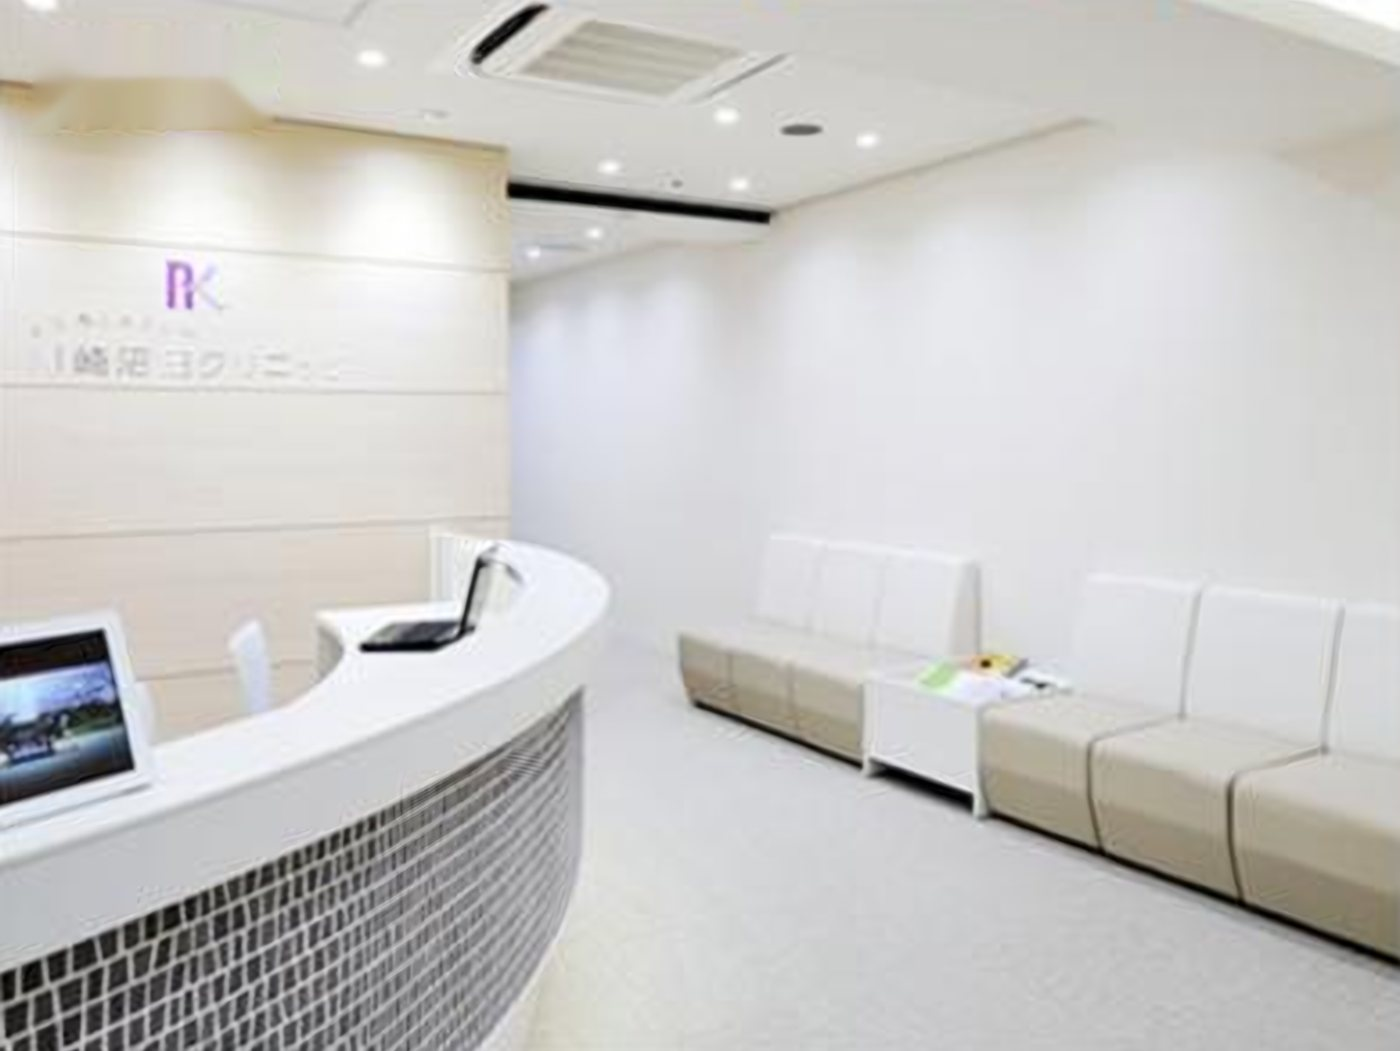
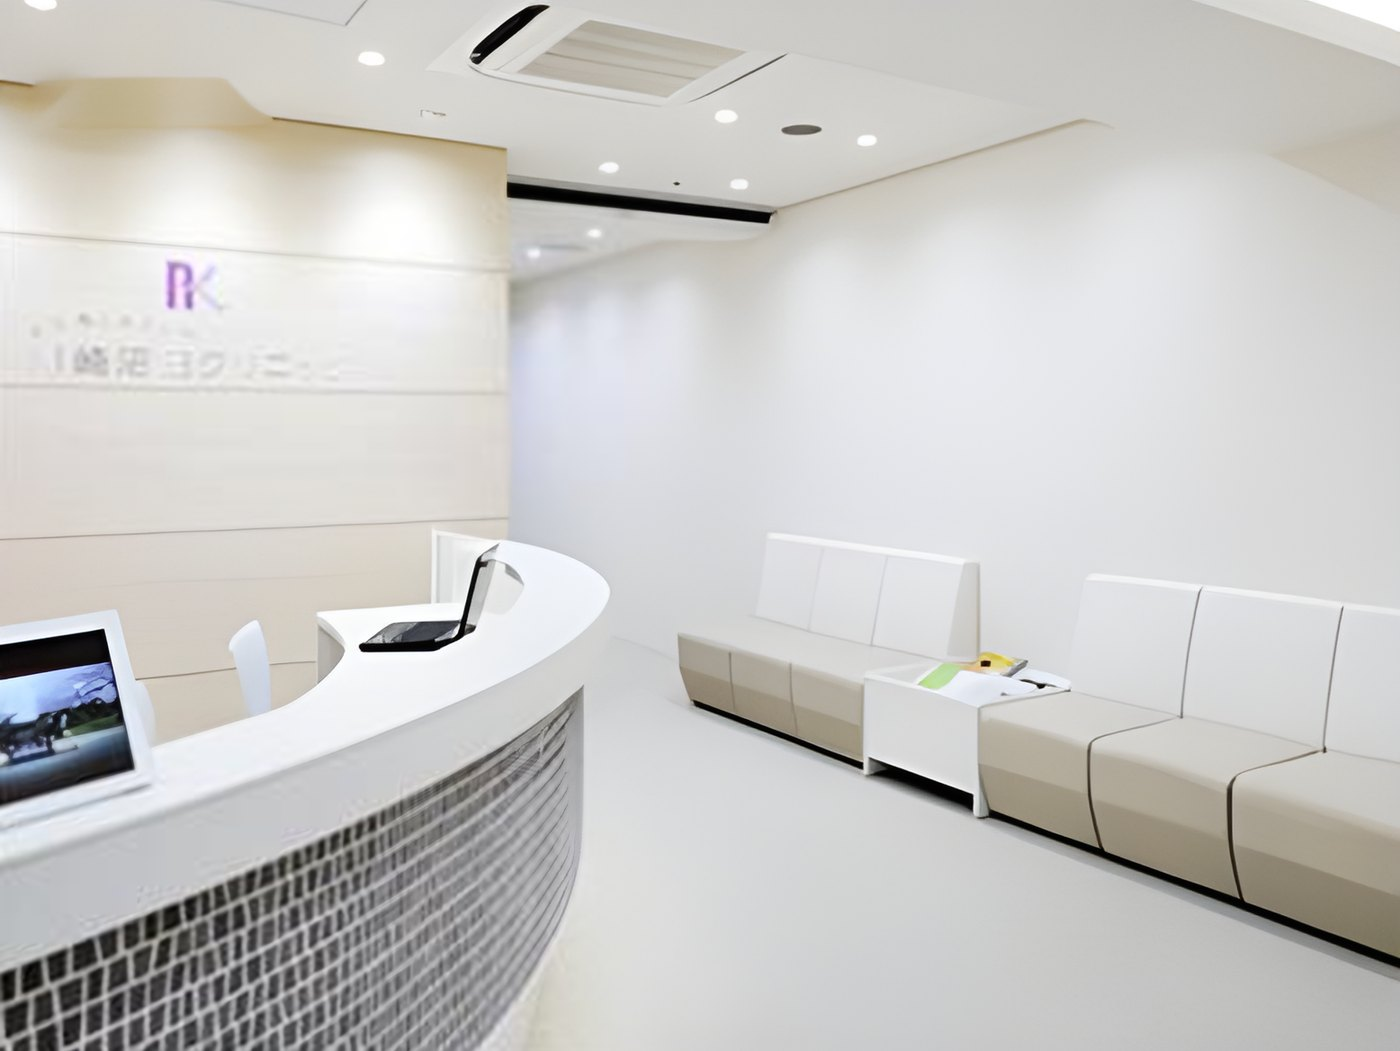
008：FVを案2（安心できる点を並べる＋院内写真の切り替え）に変更、院内写真の画質を改善
Claude-Session: https://claude.ai/code/session_01PqN1TRnnMqSdtr1dScAdhW

diff --git a/008/assets/css/style.css b/008/assets/css/style.css
@@ -75,8 +75,6 @@ table { border-collapse: collapse; }
 
 /* ---------- FV（共通） ---------- */
 .fv__stage { position: relative; overflow: hidden; background: #5DB4E8 url(../img/sky.jpg) center 35% / cover no-repeat; }
-.fv__inner { position: relative; width: min(1200px, calc(100% - 64px)); margin: 0 auto; display: grid; grid-template-columns: minmax(0, 1fr) minmax(0, 1fr); gap: 32px; align-items: center; padding: 48px 0; }
-.fv__panel { position: relative; z-index: 2; align-self: center; }
 .fv__h1 { font-size: 14px; font-weight: 700; letter-spacing: .1em; color: var(--purple); }
 .fv__title { margin-top: 14px; font-size: clamp(30px, 2.9vw, 42px); font-weight: 700; line-height: 1.5; letter-spacing: .03em; }
 .fv__lead { margin-top: 16px; font-size: 16px; line-height: 1.95; }
@@ -87,13 +85,6 @@ table { border-collapse: collapse; }
 .fv__facts strong { display: block; font-size: 17px; letter-spacing: .06em; }
 
 /* 空の中に白いパネル＋紫の帯 */
-.fv .fv__panel { background: var(--white); color: var(--ink); padding: 40px 40px 44px; border-left: 6px solid var(--plum); }
-.fv__photos { display: grid; grid-template-columns: 1fr 1fr; gap: 10px; }
-.fv__photos figure { position: relative; margin: 0; background: var(--white); padding: 6px; }
-.fv__main { grid-column: 1 / -1; }
-.fv__photos img { width: 100%; aspect-ratio: 3 / 2; object-fit: cover; }
-.fv__sub img { aspect-ratio: 16 / 10; }
-.fv__photos figcaption { position: absolute; left: 6px; bottom: 6px; background: var(--plum); color: var(--white); font-size: 12px; font-weight: 700; letter-spacing: .1em; padding: 3px 12px; }
 .sp { display: none; }
 .fv .fv__title { color: var(--plum); }
 .fv .fv__lead { color: var(--ink-sub); }
@@ -267,7 +258,41 @@ table { border-collapse: collapse; }
 p, li, dd, h1, h2, h3, .trouble__title, .column span, .company__title { word-break: keep-all; overflow-wrap: anywhere; }
 
 /* ---------- タブレット ---------- */
+/* FV：安心できる点を並べる＋写真の切り替え */
+.fv2__inner { position: relative; width: min(1200px, calc(100% - 64px)); margin: 0 auto; display: grid; grid-template-columns: minmax(0, 46fr) minmax(0, 54fr); align-items: center; padding: 52px 0; }
+.fv2__panel { position: relative; z-index: 2; margin-right: -56px; background: var(--white); padding: 40px 44px 42px; border-top: 6px solid var(--plum); }
+.fv2 .fv__title { color: var(--plum); font-size: clamp(28px, 2.6vw, 38px); }
+.fv2__checks { margin-top: 20px; display: grid; gap: 10px; }
+.fv2__checks li { display: flex; gap: 12px; align-items: flex-start; font-size: 16px; font-weight: 700; line-height: 1.6; color: var(--ink); }
+.fv2__check { flex: none; display: grid; place-items: center; width: 26px; height: 26px; margin-top: 0; border-radius: 50%; background: var(--gold); color: #3A2A06; }
+.fv2__check .icon { font-size: 15px; stroke-width: 3; }
+.fv2 .fv__btns { margin-top: 28px; }
+.fv2 .btn--sub { border: 1.5px solid var(--plum); color: var(--plum); }
+.fv2 .btn--sub:hover { background: var(--plum); color: var(--white); }
+.fv2__slides { position: relative; aspect-ratio: 4 / 3; background: var(--white); border: 8px solid var(--white); }
+.fv2__slide { position: absolute; inset: 0; margin: 0; opacity: 0; transition: opacity 1.2s ease; }
+.fv2__slide.is-on { opacity: 1; }
+.fv2__slide img { width: 100%; height: 100%; object-fit: cover; }
+.fv2__slide figcaption { position: absolute; right: 0; bottom: 0; background: var(--plum); color: var(--white); font-size: 13px; font-weight: 700; letter-spacing: .1em; padding: 4px 16px; }
+.fv2__dots { position: absolute; left: 72px; bottom: -40px; display: flex; gap: 2px; }
+.fv2__dots button { width: 44px; height: 24px; padding: 0; border: 0; background: none; cursor: pointer; }
+.fv2__dots button::before { content: ""; display: block; height: 4px; background: rgba(255,255,255,.6); }
+.fv2__dots button.is-on::before { background: var(--white); }
+.fv2__tel { background: var(--plum); color: var(--white); }
+.fv2__tel-inner { width: min(1200px, calc(100% - 64px)); margin: 0 auto; display: flex; flex-wrap: wrap; align-items: center; gap: 12px 36px; padding: 22px 0; }
+.fv2__tel-label { display: flex; flex-direction: column; font-size: 15px; font-weight: 700; letter-spacing: .08em; line-height: 1.5; }
+.fv2__tel-note { font-size: 12px; font-weight: 400; color: rgba(255,255,255,.8); }
+.fv2__tel-num { display: inline-flex; align-items: center; gap: 10px; font-family: var(--num); font-size: 36px; font-weight: 500; letter-spacing: .04em; color: var(--white); text-decoration: none; }
+.fv2__tel-num .icon { font-size: 28px; color: var(--gold); }
+.fv2__tel-hours { display: flex; flex-direction: column; gap: 0; margin-left: auto; font-size: 14px; line-height: 1.75; }
+.fv2__tel-hours div { display: flex; gap: 8px; }
+.fv2__tel-hours dt { color: var(--gold); font-weight: 700; }
+
 @media (max-width: 1080px) {
+  .fv2__inner { grid-template-columns: minmax(0, 1fr); }
+  .fv2__panel { margin: 0; order: 2; }
+  .fv2__dots { left: 10px; bottom: 4px; }
+  .fv2__tel-hours { margin-left: 0; }
   :root { --header-h: 72px; }
   .topbar, .gnav { display: none; }
   .header__inner { min-height: 72px; gap: 16px; }
@@ -281,11 +306,6 @@ p, li, dd, h1, h2, h3, .trouble__title, .column span, .company__title { word-bre
   .drawer[hidden] { display: none; }
   .drawer__list a { display: block; padding: 14px 4px; border-bottom: 1px solid var(--line); text-decoration: none; font-weight: 700; }
   .drawer__tel { width: 100%; margin-top: 20px; }
-  .fv__inner { grid-template-columns: minmax(0, 1fr); }
-  .fv .fv__panel { padding: 32px 32px 36px; }
-  .fv__photos { grid-template-columns: 2fr 1fr 1fr; }
-  .fv__main { grid-column: auto; }
-  .fv__photos img, .fv__sub img { aspect-ratio: 4 / 3; }
   .head--split { grid-template-columns: minmax(0, 1fr); }
   .trouble { grid-template-columns: minmax(0, 1fr); }
   .policy { grid-template-columns: minmax(0, 1fr); }
@@ -296,21 +316,21 @@ p, li, dd, h1, h2, h3, .trouble__title, .column span, .company__title { word-bre
 
 /* ---------- スマホ ---------- */
 @media (max-width: 767px) {
+  .fv2__inner { width: 100%; padding: 0; }
+  .fv2__slides { border: 0; }
+  .fv2__dots button { width: 44px; }
+  .fv2__panel { padding: 28px 20px 32px; border-top-width: 5px; }
+  .fv2 .fv__title { font-size: 27px; }
+  .fv2__checks li { font-size: 15px; }
+  .fv2__tel-inner { width: calc(100% - 40px); padding: 20px 0 22px; gap: 8px; }
+  .fv2__tel-num { font-size: 32px; }
+  .fv2__tel-hours { flex-direction: column; font-size: 13px; }
   body { font-size: 15px; }
   .wrap { width: calc(100% - 40px); }
   .header__inner { width: calc(100% - 32px); }
   .header__logo img { width: 168px; }
   .header__tel { display: none; }
   .sp { display: inline; }
-  .fv__inner { width: 100%; grid-template-columns: minmax(0, 1fr); min-height: 0; padding: 0; gap: 0; }
-  .fv__photos { order: -1; grid-template-columns: 1fr 1fr; gap: 6px; padding: 16px 16px 0; }
-  .fv__main { grid-column: 1 / -1; }
-  .fv__photos figure { padding: 4px; }
-  .fv__photos img { aspect-ratio: 3 / 2; }
-  .fv__sub img { aspect-ratio: 4 / 3; }
-  .fv__photos figcaption { left: 4px; bottom: 4px; font-size: 11px; padding: 2px 10px; }
-  .fv__panel { padding: 30px 20px 34px; }
-  .fv .fv__panel { border-left: 0; border-top: 5px solid var(--plum); }
   .fv__title { font-size: 28px; }
   .fv__lead { font-size: 15px; }
   .fv__btns { flex-direction: column; }

diff --git a/008/index.html b/008/index.html
@@ -208,30 +208,43 @@
 
 <main id="main">
 
-  <section class="fv" aria-labelledby="fv-title">
+  <section class="fv fv2" aria-labelledby="fv-title">
     <div class="fv__stage">
-      <div class="fv__inner">
-        <div class="fv__panel">
+      <div class="fv2__inner">
+        <div class="fv2__panel">
           <h1 class="fv__h1" id="fv-title">川崎駅から徒歩2分の心療内科・精神科</h1>
-          <p class="fv__title dmoji">うまくいかなかったのは、<br>あなただけのせいでは<br>ありません。</p>
-          <p class="fv__lead">不器用でも、<wbr>遠回りを<wbr>してきても<wbr>構いません。<wbr>いま困っている<wbr>ことを<wbr>院長と<wbr>一緒に<wbr>整理して、<wbr>ここから<wbr>次の<wbr>手を<wbr>考えていきます。</p>
+          <p class="fv__title dmoji">うまく<wbr>いかなかったのは、<br>あなただけの<wbr>せいでは<br>ありません。</p>
+          <ul class="fv2__checks">
+            <li><span class="fv2__check"><svg class="icon"><use href="#i-check"/></svg></span><span>初診から<wbr>最後まで、<wbr>院長が<wbr>担当します</span></li>
+            <li><span class="fv2__check"><svg class="icon"><use href="#i-check"/></svg></span><span>薬だけに<wbr>頼らず、<wbr>お話を<wbr>伺いながら<wbr>進めます</span></li>
+            <li><span class="fv2__check"><svg class="icon"><use href="#i-check"/></svg></span><span>ご家族の<wbr>ことで<wbr>悩む方も、<wbr>ご本人と<wbr>して<wbr>相談できます</span></li>
+            <li><span class="fv2__check"><svg class="icon"><use href="#i-check"/></svg></span><span>川崎駅から<wbr>徒歩2分。<wbr>完全予<wbr>約制です</span></li>
+          </ul>
           <div class="fv__btns">
             <a class="btn btn--gold" href="tel:0445895377"><svg class="icon"><use href="#i-phone"/></svg><span class="dmoji dmoji-nw">電話で予約する</span></a>
             <a class="btn btn--sub" href="#first"><span class="dmoji dmoji-nw">初診の流れ</span><svg class="icon"><use href="#i-arrow"/></svg></a>
           </div>
         </div>
-        <div class="fv__photos">
-          <figure class="fv__main"><img src="assets/img/clinic-waiting.jpg" alt="川崎沼田クリニックの待合室" width="1400" height="1051"><figcaption>待合室</figcaption></figure>
-          <figure class="fv__sub"><img src="assets/img/clinic-reception.jpg" alt="川崎沼田クリニックの受付" width="1000" height="751"><figcaption>受付</figcaption></figure>
-          <figure class="fv__sub"><img src="assets/img/clinic-room.jpg" alt="川崎沼田クリニックの診察室" width="1000" height="751"><figcaption>診察室</figcaption></figure>
+        <div class="fv2__slides" aria-label="院内の様子">
+          <figure class="fv2__slide is-on"><img src="assets/img/clinic-waiting.jpg" alt="川崎沼田クリニックの待合室" width="1400" height="1051"><figcaption>待合室</figcaption></figure>
+          <figure class="fv2__slide"><img src="assets/img/clinic-reception.jpg" alt="川崎沼田クリニックの受付" width="1000" height="751"><figcaption>受付</figcaption></figure>
+          <figure class="fv2__slide"><img src="assets/img/clinic-room.jpg" alt="川崎沼田クリニックの診察室" width="1000" height="751"><figcaption>診察室</figcaption></figure>
+          <figure class="fv2__slide"><img src="assets/img/clinic-exterior.jpg" alt="川崎沼田クリニックが入る加瀬ビル133の外観" width="1000" height="751"><figcaption>外観</figcaption></figure>
+          <div class="fv2__dots"><button type="button" aria-label="待合室の写真" class="is-on"></button><button type="button" aria-label="受付の写真"></button><button type="button" aria-label="診察室の写真"></button><button type="button" aria-label="外観の写真"></button></div>
         </div>
       </div>
     </div>
-    <ul class="fv__facts">
-      <li><svg class="icon"><use href="#i-user"/></svg><span><strong>完全主<wbr>治医制</strong>初診から<wbr>最後まで<wbr>院長が<wbr>担当</span></li>
-      <li><svg class="icon"><use href="#i-badge"/></svg><span><strong>精神保健指定医</strong>日本医師会 認定産業医</span></li>
-      <li><svg class="icon"><use href="#i-train"/></svg><span><strong>駅から<wbr>徒歩2分</strong>JR川崎駅<wbr>東口・京急川崎駅</span></li>
-    </ul>
+    <div class="fv2__tel">
+      <div class="fv2__tel-inner">
+        <p class="fv2__tel-label"><span class="dmoji">ご予約・<wbr>お問い合わせ</span><span class="fv2__tel-note">完全予<wbr>約制</span></p>
+        <a class="fv2__tel-num" href="tel:0445895377"><svg class="icon"><use href="#i-phone"/></svg>044-589-5377</a>
+        <dl class="fv2__tel-hours">
+          <div><dt>平日</dt><dd><span class="nw">9:30〜12:30</span>・<span class="nw">14:30〜18:15</span></dd></div>
+          <div><dt>土曜</dt><dd><span class="nw">9:00〜12:00</span>・<span class="nw">14:00〜16:45</span></dd></div>
+          <div><dt>休診</dt><dd>木曜・日曜・祝日</dd></div>
+        </dl>
+      </div>
+    </div>
   </section>
 
   <section class="sec" id="trouble" aria-labelledby="trouble-title">
@@ -517,5 +530,6 @@
 </div>
 
 <script src="assets/js/main.js"></script>
+
 </body>
 </html>

diff --git a/008/assets/js/main.js b/008/assets/js/main.js
@@ -88,3 +88,14 @@
     onScroll();
   }
 })();
+
+// FV：院内写真の切り替え
+(() => {
+  const box = document.querySelector('.fv2__slides'); if (!box) return;
+  const s = [...box.querySelectorAll('.fv2__slide')], d = [...box.querySelectorAll('.fv2__dots button')];
+  let i = 0, t;
+  const go = n => { s[i].classList.remove('is-on'); d[i].classList.remove('is-on'); i = n; s[i].classList.add('is-on'); d[i].classList.add('is-on'); };
+  const play = () => { if (matchMedia('(prefers-reduced-motion: reduce)').matches) return; clearInterval(t); t = setInterval(() => go((i + 1) % s.length), 5000); };
+  d.forEach((b, n) => b.addEventListener('click', () => { go(n); play(); }));
+  play();
+})();
